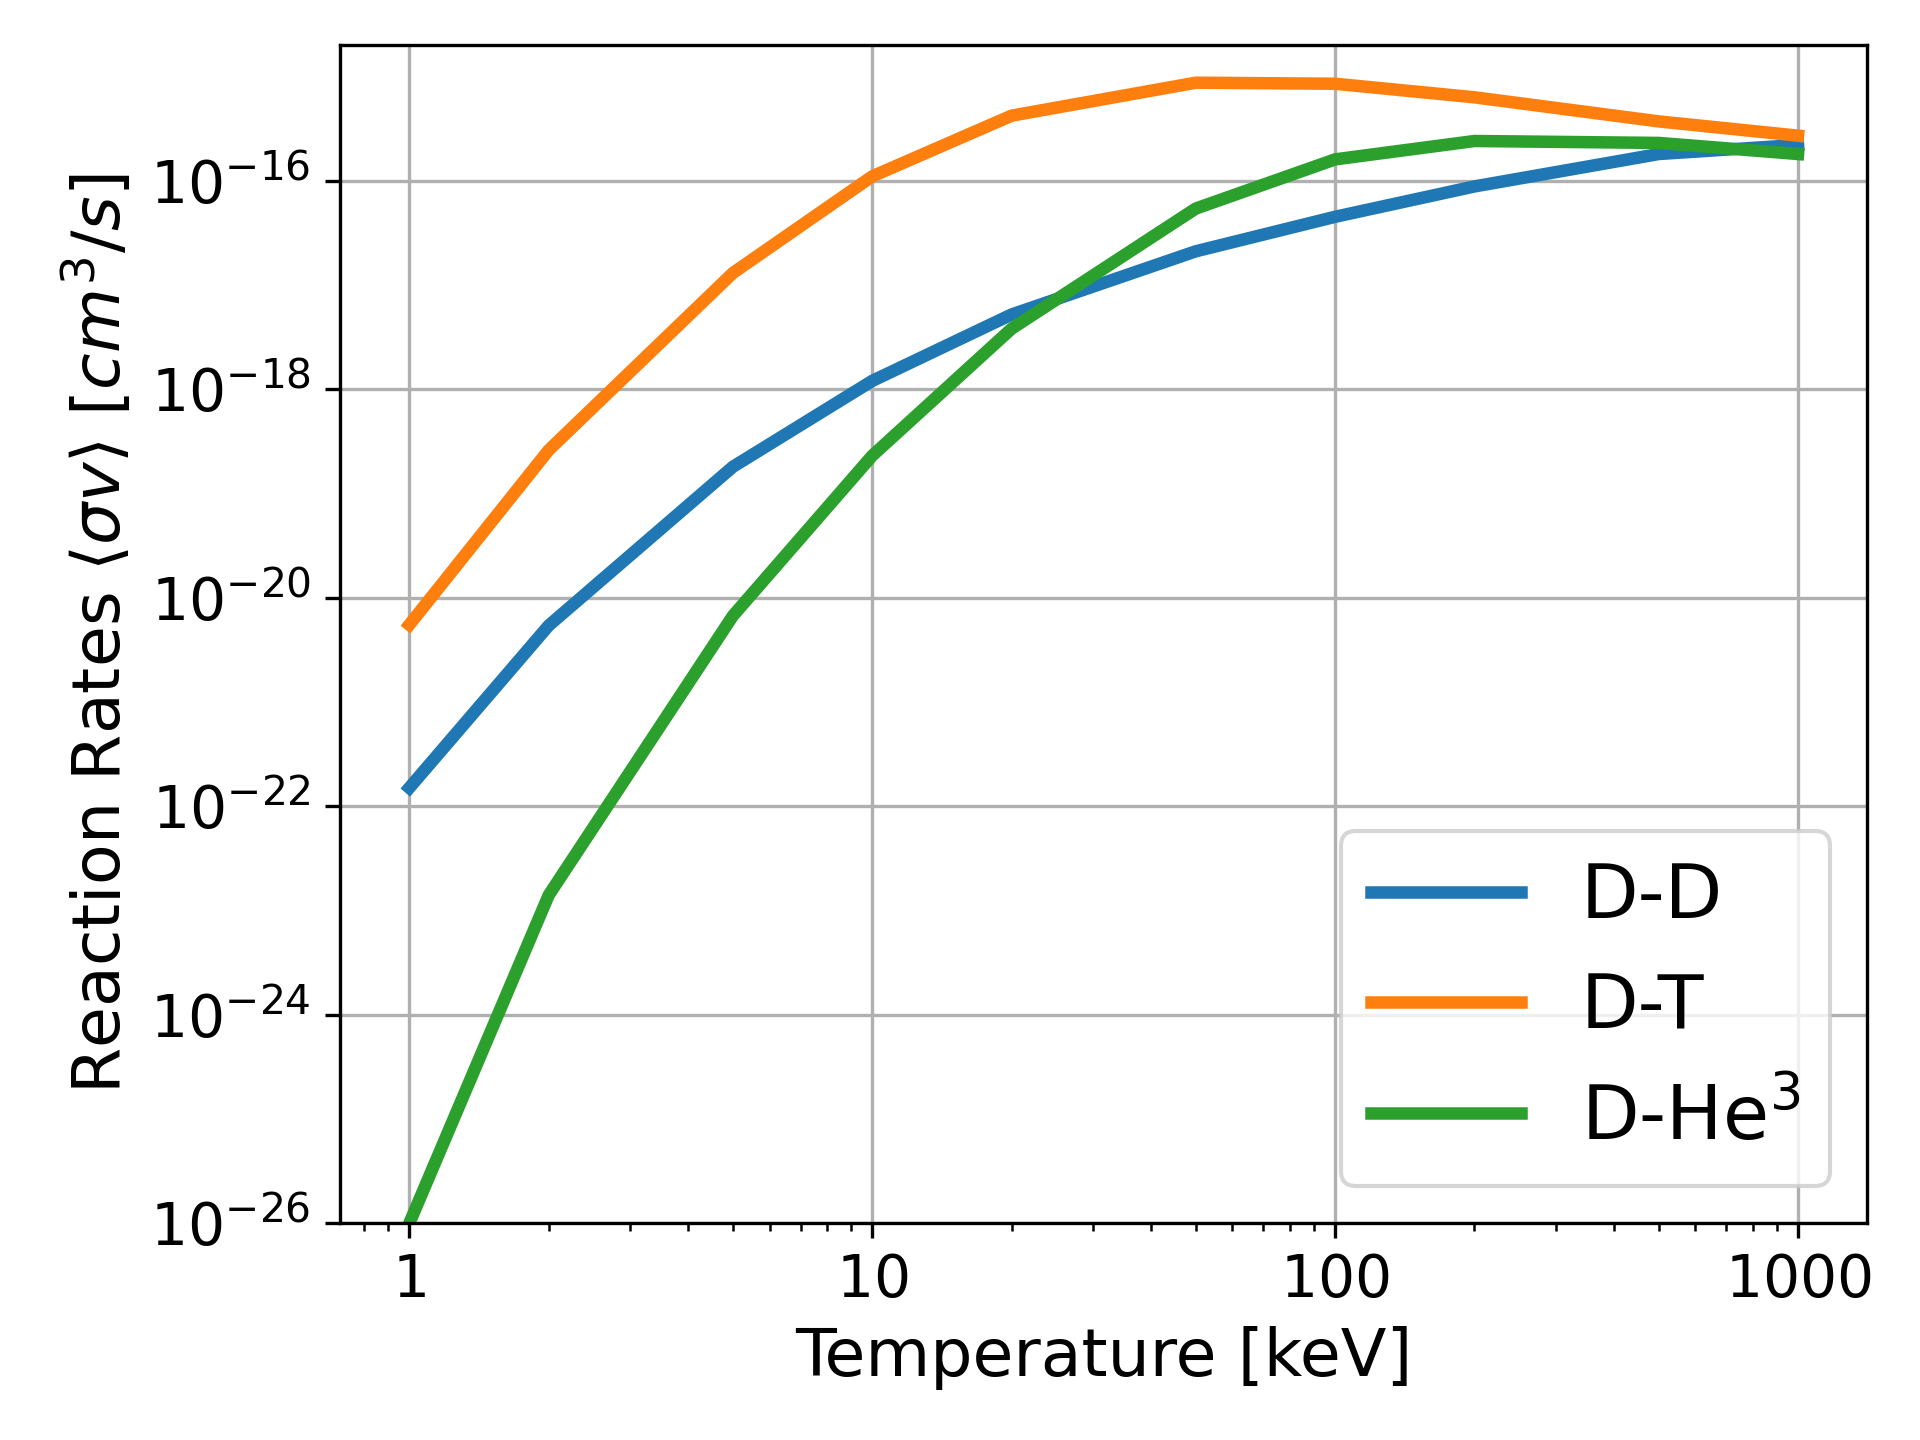
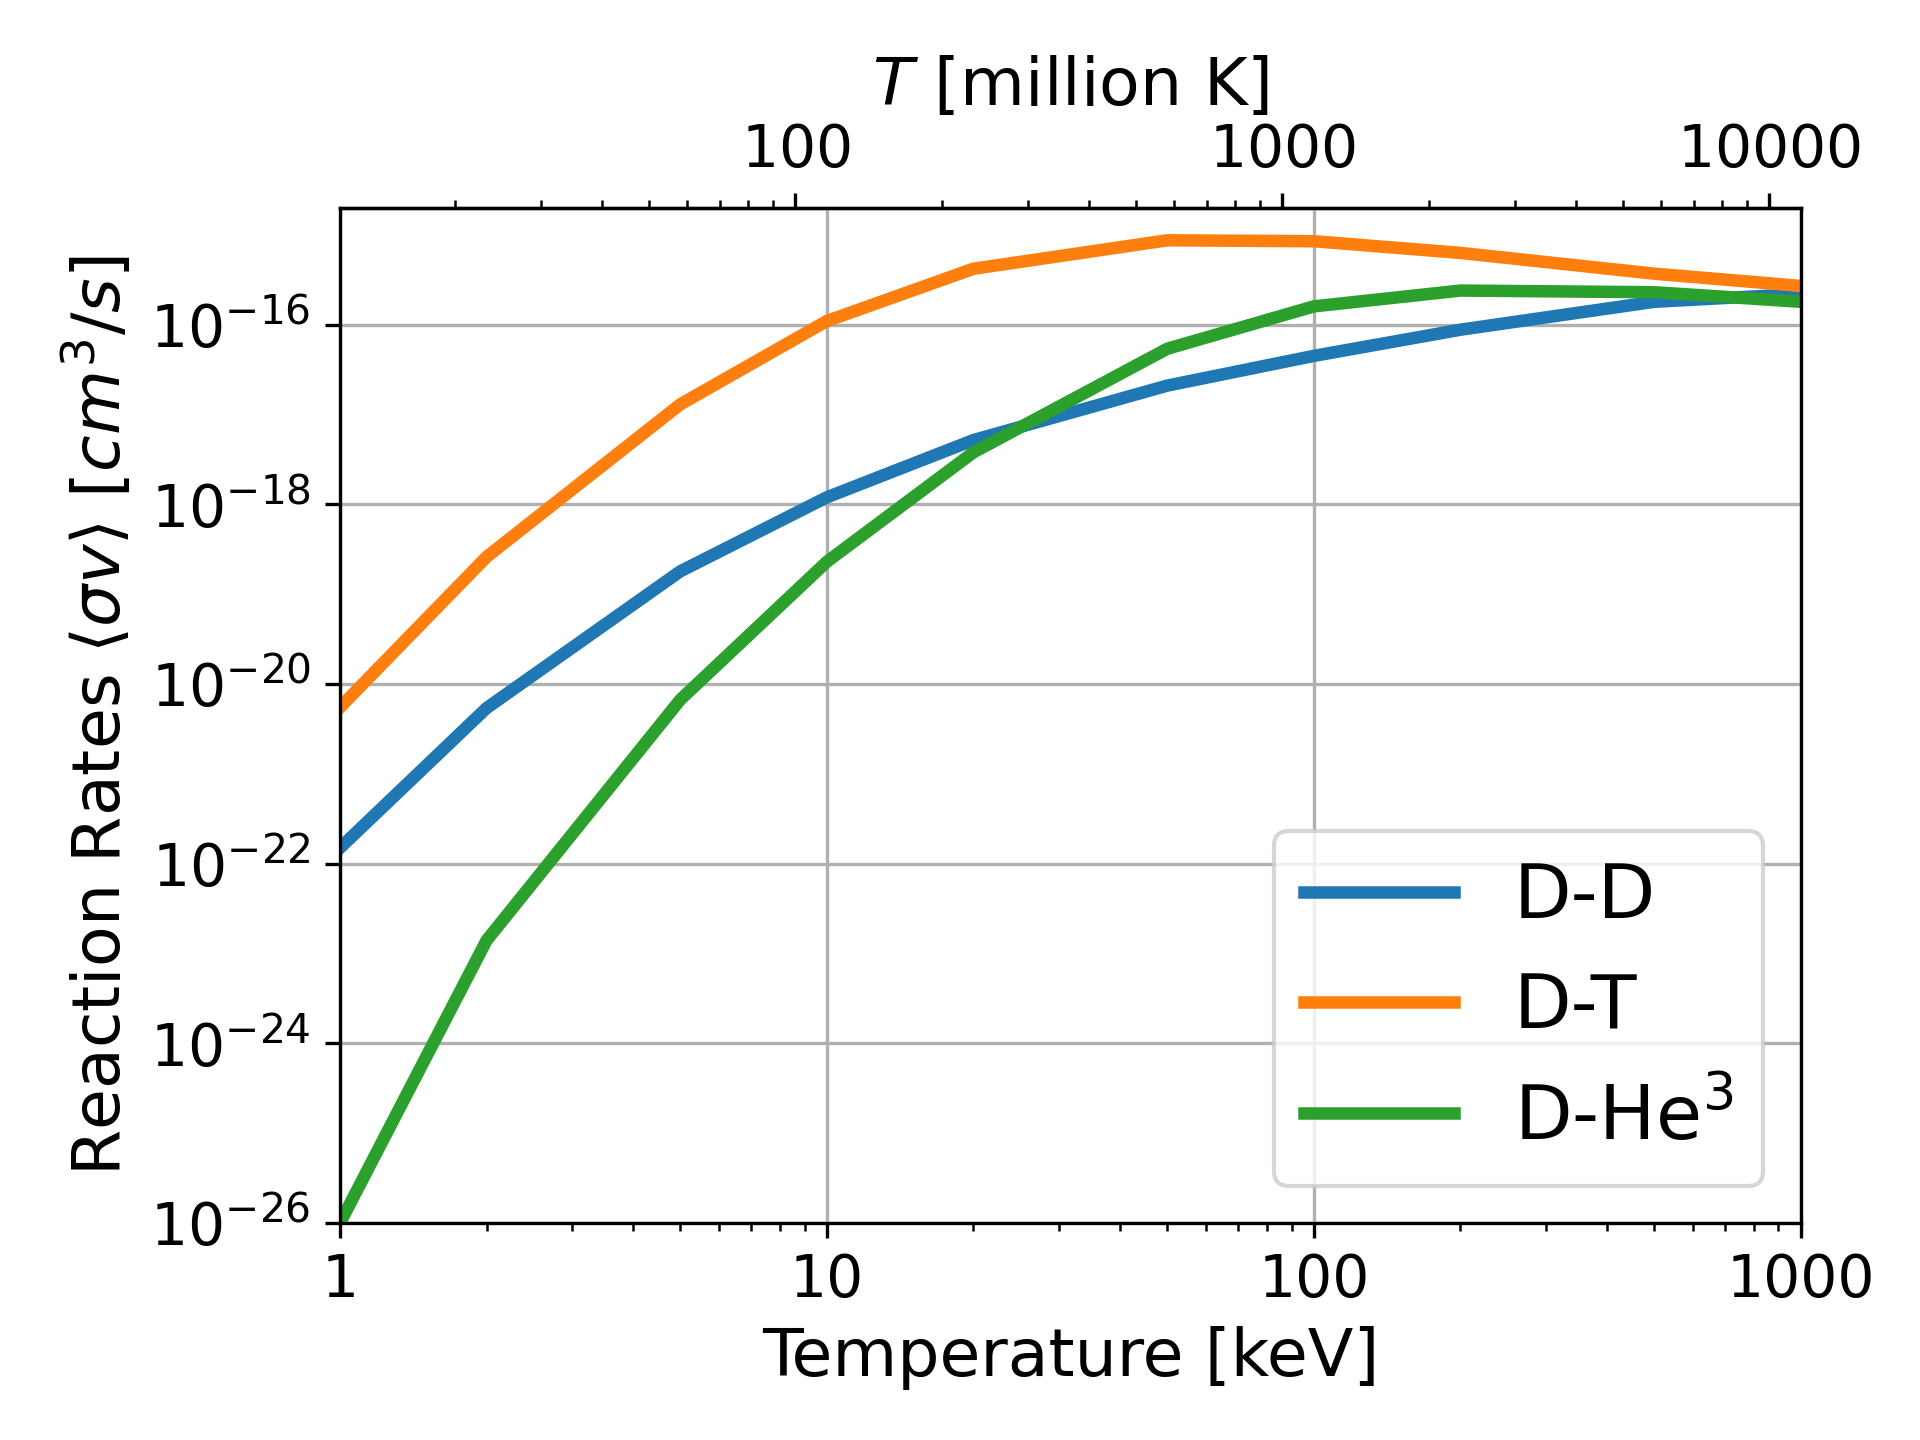
Adding secondary x-axis to the reactivity figure

diff --git a/fusion_cross_sections/Fusion Cross Section.py b/fusion_cross_sections/Fusion Cross Section.py
@@ -64,6 +64,13 @@ def cross_section_NRL(E, reaction='DT'):
     sigma_T = (A[4]+((A[3]-A[2]*E)**2+1)**(-1) * A[1])/(E*(np.exp(A[0]/np.sqrt(E))-1))
     return(sigma_T)
 
+#%%
+# keV <-> K conversions for upper x-axis
+def keV_to_K(keV):
+    return keV/k_B*e/1e3
+def K_to_keV(K):
+    return K*k_B/e*1e3
+
 
 #%%
 """
@@ -82,23 +89,17 @@ ax.loglog(E, sigma_DD, E, sigma_DT, E, sigma_DHe3, lw=3)
 ax.set_ylim([1e-32, 2e-27])
 ax.set_xlim(1,1e3)
 
+# Create an upper x-axis with temperature in millions K
+# and format the logscale ticks in natural numbers instead of scientific notation
 # Format tick values as numbers
 maj_formatter = matplotlib.ticker.ScalarFormatter()
 maj_formatter.set_scientific(False)
 ax.get_xaxis().set_major_formatter(maj_formatter) 
 ax.set_xticks([1, 10, 100, 1000])
-
-# Top x-axis for energies in millions of K
-def keV_to_K(keV):
-    return keV/k_B*e/1e3
-def K_to_keV(K):
-    return K*k_B/e*1e3
-
 ax2 = ax.secondary_xaxis('top', functions=(keV_to_K, K_to_keV))
 ax2.set_xticks([20, 100, 1000, 5000])
 # force matplotlib LogFormatterSciNotation to not use scientific notation until 10^5
 plt.rcParams['axes.formatter.min_exponent'] = 5
-
 [a.tick_params(labelsize=14) for a in (ax, ax2)]
 
 ax.grid(True, which='minor')
@@ -126,12 +127,29 @@ fig, ax = plt.subplots()
 ax.loglog(E, DD, 
           E, DT, 
           E, DHe3, lw=3)
+
+# Create an upper x-axis with temperature in millions K
+# and format the logscale ticks in natural numbers instead of scientific notation
+# Format tick values as numbers
+maj_formatter = matplotlib.ticker.ScalarFormatter()
+maj_formatter.set_scientific(False)
+ax.get_xaxis().set_major_formatter(maj_formatter) 
+ax.set_xticks([1, 10, 100, 1000])
+ax2 = ax.secondary_xaxis('top', functions=(keV_to_K, K_to_keV))
+ax2.set_xticks([20, 100, 1000, 5000])
+# force matplotlib LogFormatterSciNotation to not use scientific notation until 10^5
+plt.rcParams['axes.formatter.min_exponent'] = 5
+[a.tick_params(labelsize=14) for a in (ax, ax2)]
+
 ax.grid(True)
 ax.set_xlabel('Temperature [keV]', fontsize=16)
 ax.set_ylabel(r'Reaction Rates $\left<\sigma v\right>$ [$cm^3/s$]', fontsize=16)
 ax.tick_params(labelsize=14)
 ax.set_ylim([1e-26, 2e-15])
+ax.set_xlim(1,1e3)
 ax.legend(('D-D', 'D-T', 'D-He$^3$'), loc='best', fontsize=18)
+ax2.set_xlabel('$T$ [million K]', fontsize=16)
+
 fig.tight_layout()
 # fig.text( .71, .98, credit_str, fontsize=7)
 fig.savefig('reaction_rates_section_vs_E.png', dpi=300)
